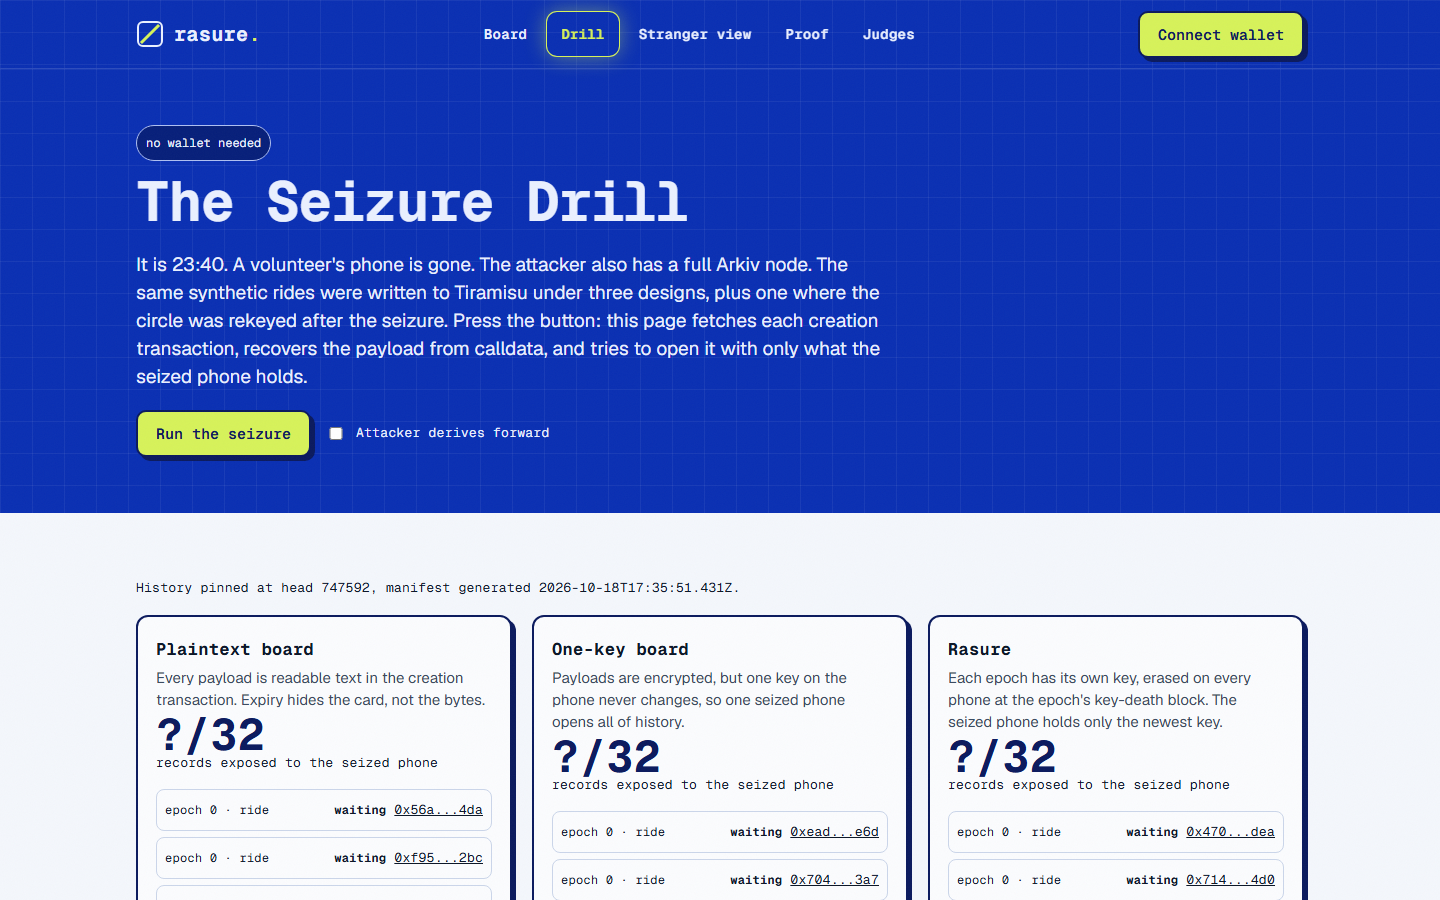
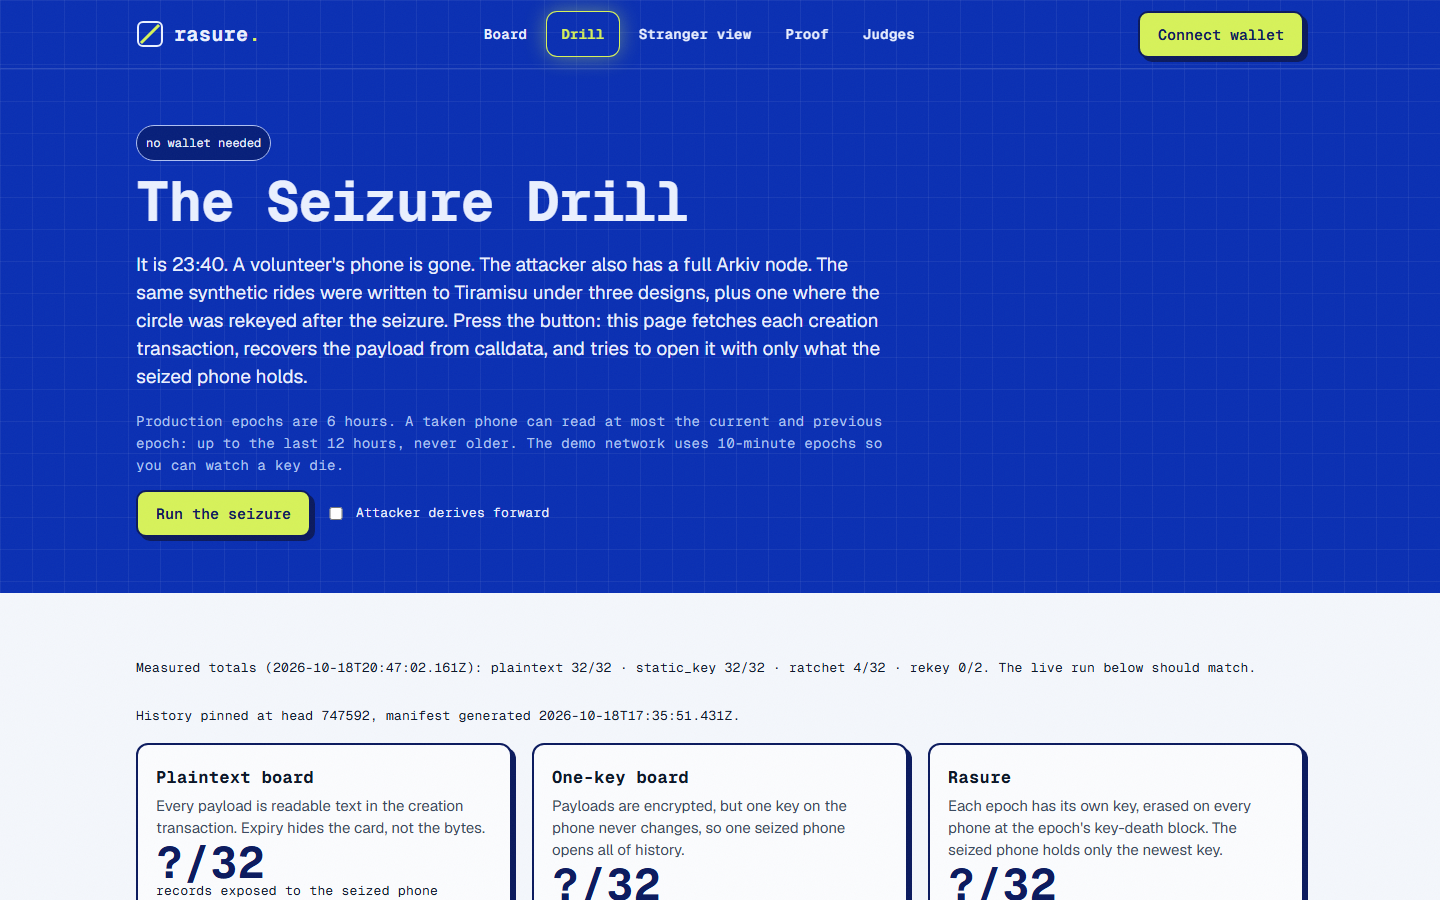
Final pass: baked facts for no-JS readers, human first opening, exact hours, exposure meter, positioning, arkiv-encryption evaluation

Changed region(s): [[0.0, 0.4356, 1.0, 1.0], [0.5, 0.9644, 0.625, 0.9956], [0.875, 0.8089, 0.9062, 0.84]]

diff --git a/packages/core/src/exposure.ts b/packages/core/src/exposure.ts
@@ -1,0 +1,68 @@
+// "If this phone were taken now": what a holder of this keyring can open, derived from the keys it
+// actually holds. Pure counting, no I/O, so the board and the demo view can show the guarantee live.
+
+import { EPOCH_BLOCKS, SECONDS_PER_BLOCK } from "./schema";
+import { epochStart, keyDeathBlock, type KeyringState } from "./ratchet";
+
+export interface Exposure {
+  /** Records the held keys open right now. */
+  openable: number;
+  /** Records whose key is already erased on this phone. */
+  sealedForever: number;
+  /** Death blocks of the erased keys the older records were sealed under, ascending, unique. */
+  erasedAtBlocks: bigint[];
+  /** Seconds covered by the oldest held key up to the head: the most any record read here can be. */
+  windowSeconds: number;
+  /** Seconds until the last held key dies, or null when the phone holds no key. */
+  secondsToNone: number | null;
+}
+
+/**
+ * @param ring    the keyring (only epochs and the clock are read, never a key value)
+ * @param records the records on the board, each with the epoch it was sealed under
+ * @param head    the current head block
+ */
+export function exposureOf(ring: Pick<KeyringState, "keys" | "clock">, records: { epoch: bigint }[], head: bigint): Exposure {
+  const live = ring.keys.filter((k) => head < keyDeathBlock(ring.clock, k.epoch));
+  const held = new Set(live.map((k) => k.epoch));
+  let openable = 0;
+  const erased = new Set<bigint>();
+  for (const r of records) {
+    if (held.has(r.epoch)) openable++;
+    else erased.add(keyDeathBlock(ring.clock, r.epoch));
+  }
+  const sealedForever = records.length - openable;
+  if (live.length === 0) return { openable, sealedForever, erasedAtBlocks: [...erased].sort((a, b) => (a < b ? -1 : 1)), windowSeconds: 0, secondsToNone: null };
+  const oldest = live.reduce((a, b) => (b.epoch < a.epoch ? b : a));
+  const lastDeath = live.reduce((a, b) => { const d = keyDeathBlock(ring.clock, b.epoch); return d > a ? d : a; }, 0n);
+  const from = epochStart(ring.clock, oldest.epoch);
+  const span = head > from ? head - from : 0n;
+  return {
+    openable,
+    sealedForever,
+    erasedAtBlocks: [...erased].sort((a, b) => (a < b ? -1 : 1)),
+    windowSeconds: Number(span) * SECONDS_PER_BLOCK,
+    secondsToNone: Number(lastDeath - head) * SECONDS_PER_BLOCK,
+  };
+}
+
+/** "6 hours", "12 hours", "10 minutes": a block count as time, derived from the schema, never typed. */
+export function blocksAsTime(blocks: bigint): string {
+  const s = Number(blocks) * SECONDS_PER_BLOCK;
+  if (s % 3600 === 0) return `${s / 3600} hour${s === 3600 ? "" : "s"}`;
+  if (s % 60 === 0) return `${s / 60} minute${s === 60 ? "" : "s"}`;
+  return `${s} seconds`;
+}
+
+/** The guarantee in time, derived from EPOCH_BLOCKS. Used by the app and the README so the numbers are typed once. */
+export function epochGuarantee() {
+  const prod = blocksAsTime(EPOCH_BLOCKS.production);
+  const window = blocksAsTime(EPOCH_BLOCKS.production * 2n);
+  const demo = blocksAsTime(EPOCH_BLOCKS.demo).replace(/ (\w+?)s?$/, "-$1");
+  return {
+    prod,
+    window,
+    demo,
+    sentence: `Production epochs are ${prod}. A taken phone can read at most the current and previous epoch: up to the last ${window}, never older. The demo network uses ${demo} epochs so you can watch a key die.`,
+  };
+}

diff --git a/packages/core/test/exposure.test.ts b/packages/core/test/exposure.test.ts
@@ -1,0 +1,68 @@
+import { describe, expect, it } from "vitest";
+import { EPOCH_BLOCKS, advance, blocksAsTime, exposureOf, joinChain, newChain } from "../src";
+
+const clock = { genesisBlock: 1000n, epochBlocks: 300n };
+const recs = (...epochs: number[]) => epochs.map((e) => ({ epoch: BigInt(e) }));
+
+describe("exposureOf", () => {
+  it("no keys: nothing opens, everything is sealed forever, no countdown", () => {
+    const e = exposureOf({ clock, keys: [] }, recs(0, 1, 2), 1700n);
+    expect(e.openable).toBe(0);
+    expect(e.sealedForever).toBe(3);
+    expect(e.secondsToNone).toBeNull();
+    expect(e.windowSeconds).toBe(0);
+  });
+
+  it("current and grace key: opens exactly those epochs, older are erased with their death blocks", () => {
+    let ring = newChain("0xc", clock);
+    ring = advance(ring, 1000n + 300n * 3n + 10n).state; // epoch 3 now, keys 2 and 3 live
+    expect(ring.keys.map((k) => k.epoch)).toEqual([2n, 3n]);
+    const head = 1000n + 300n * 3n + 10n;
+    const e = exposureOf(ring, recs(0, 1, 2, 3), head);
+    expect(e.openable).toBe(2);
+    expect(e.sealedForever).toBe(2);
+    expect(e.erasedAtBlocks).toEqual([1000n + 600n, 1000n + 900n]);
+    // last held key (epoch 3) dies at the start of epoch 5
+    expect(e.secondsToNone).toBe(Number(1000n + 300n * 5n - head) * 2);
+    // window runs from the start of epoch 2 to the head
+    expect(e.windowSeconds).toBe(Number(head - (1000n + 600n)) * 2);
+  });
+
+  it("after a key dies the count drops on the next block", () => {
+    let ring = newChain("0xc", clock);
+    const before = 1000n + 300n * 2n - 1n; // last block of epoch 1, keys 0 and 1 live
+    ring = advance(ring, before).state;
+    expect(exposureOf(ring, recs(0, 1), before).openable).toBe(2);
+    const after = before + 1n; // epoch 2 starts, key 0 dies
+    ring = advance(ring, after).state;
+    const e = exposureOf(ring, recs(0, 1), after);
+    expect(e.openable).toBe(1);
+    expect(e.sealedForever).toBe(1);
+  });
+
+  it("after a rekey the old keys are replaced by the new chain only", () => {
+    const old = advance(newChain("0xc", clock), 1000n + 300n * 3n).state;
+    const head = 1000n + 300n * 3n + 5n;
+    const rekeyed = joinChain("0xc", clock, 3n, new Uint8Array(32).fill(7));
+    expect(exposureOf(old, recs(2, 3), head).openable).toBe(2);
+    const e = exposureOf(rekeyed, recs(2, 3), head);
+    expect(e.openable).toBe(1); // only the new chain's epoch
+    expect(e.sealedForever).toBe(1);
+  });
+});
+
+describe("blocksAsTime", () => {
+  it("derives the production and demo epochs from the schema", () => {
+    expect(blocksAsTime(EPOCH_BLOCKS.production)).toBe("6 hours");
+    expect(blocksAsTime(EPOCH_BLOCKS.demo)).toBe("10 minutes");
+    expect(blocksAsTime(EPOCH_BLOCKS.production * 2n)).toBe("12 hours");
+  });
+});
+
+describe("epochGuarantee", () => {
+  it("states the window in hours, from EPOCH_BLOCKS", async () => {
+    const { epochGuarantee } = await import("../src");
+    const g = epochGuarantee();
+    expect(g.sentence).toBe("Production epochs are 6 hours. A taken phone can read at most the current and previous epoch: up to the last 12 hours, never older. The demo network uses 10-minute epochs so you can watch a key die.");
+  });
+});

diff --git a/apps/web/app/proof/page.tsx b/apps/web/app/proof/page.tsx
@@ -140,7 +140,7 @@ export default function Proof() {
           {f && (f.wildWindows?.length > 0 || f.wildCalldata) && (
             <>
               <h3 className="pf-h3">Wild set · other people's expired records on Arkiv</h3>
-              <div className="pf-tablewrap"><table className="pf-table">
+              <div className="pf-tablewrap" tabIndex={0} role="region" aria-label="Scrollable table"><table className="pf-table">
                 <thead><tr><th>Window</th><th>Sampled</th><th>Still return a payload</th><th>Parse as text</th></tr></thead>
                 <tbody>
                   {f.wildWindows?.map((w: any) => <tr key={w.windowBlocks}><td>{w.approxMinutes} min back{w.partial ? " (partial)" : ""}</td><td className="mono">{w.sampled}</td><td className="mono">{w.stillReturnPayload}</td><td className="mono">{w.readableText}</td></tr>)}
@@ -154,7 +154,7 @@ export default function Proof() {
         <section id="onchain" className="pf-sec">
           <div className="pf-head"><h2>On chain</h2><span className="label pf-meta">{evidence?.length ?? 0} transactions with entity keys</span></div>
           {evidence === null ? <div className="skeleton" style={{ height: 120 }} /> : (
-            <div className="pf-tablewrap"><table className="pf-table">
+            <div className="pf-tablewrap" tabIndex={0} role="region" aria-label="Scrollable table"><table className="pf-table">
               <thead><tr><th>What</th><th>Transaction</th><th>Entity key</th></tr></thead>
               <tbody>{evidence.map((e, i) => (
                 <tr key={`${e.label}-${i}`}>
@@ -195,7 +195,7 @@ export default function Proof() {
         <section id="wallets" className="pf-sec">
           <div className="pf-head"><h2>Wallets</h2><span className="label pf-meta">all testnet, all synthetic</span></div>
           {wallets === null ? <div className="skeleton" style={{ height: 80 }} /> : (
-            <div className="pf-tablewrap"><table className="pf-table">
+            <div className="pf-tablewrap" tabIndex={0} role="region" aria-label="Scrollable table"><table className="pf-table">
               <thead><tr><th>Role</th><th>Address</th><th>What it does</th></tr></thead>
               <tbody>{wallets.map((w) => <tr key={w.address}><td className="mono">{w.role}</td><td className="mono"><a href={addrUrl(w.address)} target="_blank" rel="noreferrer" title={w.address}>{short(w.address)}</a></td><td>{w.note.replace(/`/g, "")}</td></tr>)}</tbody>
             </table></div>

diff --git a/apps/web/app/drill/page.tsx b/apps/web/app/drill/page.tsx
@@ -1,4 +1,5 @@
 "use client";
+import { epochGuarantee } from "@rasure/core";
 import { useEffect, useState } from "react";
 import { hexToBytes } from "viem";
 import { ShieldCheck, ShieldAlert } from "lucide-react";
@@ -65,6 +66,7 @@ export default function DrillPage() {
           <p style={{ fontSize: 19, maxWidth: 760 }}>
             It is 23:40. A volunteer's phone is gone. The attacker also has a full Arkiv node. The same synthetic rides were written to Tiramisu under three designs, plus one where the circle was rekeyed after the seizure. Press the button: this page fetches each creation transaction, recovers the payload from calldata, and tries to open it with only what the seized phone holds.
           </p>
+          <p className="mono" style={{ fontSize: 14, lineHeight: "22px", color: "var(--on-cobalt-2)", maxWidth: 760 }}>{epochGuarantee().sentence}</p>
           <div style={{ display: "flex", gap: 12, flexWrap: "wrap", alignItems: "center" }}>
             <button className="btn btn-lime" onClick={run} disabled={running || manifest === null || manifest === "missing"}>{running ? "Running..." : "Run the seizure"}</button>
             <label className="label" style={{ display: "inline-flex", gap: 8, alignItems: "center" }}>
@@ -76,6 +78,11 @@ export default function DrillPage() {
       </section>
       <section className="sec" style={{ paddingTop: 48 }}>
         <div className="wrap">
+          {hasFacts(facts) && facts.drill && (
+            <p className="label" style={{ marginBottom: 20 }} data-testid="drill-facts">
+              Measured totals ({facts.generatedAt}): {Object.entries(facts.drill).map(([k, v]) => `${k} ${v.exposed}/${v.total}`).join(" · ")}. The live run below should match.
+            </p>
+          )}
           {manifest === null && <div className="skeleton" style={{ height: 120 }} />}
           {manifest === "missing" && (
             <div className="notice">
@@ -116,11 +123,6 @@ export default function DrillPage() {
                 })}
               </div>
               {forward && <ForwardPanel manifest={manifest} />}
-              {hasFacts(facts) && facts.drill && (
-                <p className="label" style={{ marginTop: 20 }}>
-                  FACTS.json totals ({facts.generatedAt}): {Object.entries(facts.drill).map(([k, v]) => `${k} ${v.exposed}/${v.total}`).join(" · ")}. The live run above should match.
-                </p>
-              )}
             </>
           )}
         </div>

diff --git a/apps/web/components/board/ExposureMeter.tsx b/apps/web/components/board/ExposureMeter.tsx
@@ -1,0 +1,33 @@
+"use client";
+import { exposureOf, type KeyringState } from "@rasure/core";
+
+const mmss = (s: number) => `${String(Math.floor(Math.max(0, s) / 60)).padStart(2, "0")}:${String(Math.max(0, s) % 60).padStart(2, "0")}`;
+const span = (s: number) => (s >= 3600 ? `${(Math.round(s / 360) / 10).toString()} hours` : `${Math.max(1, Math.round(s / 60))} minutes`);
+
+/**
+ * The guarantee, shown to the person holding the phone: what a taker could open right now.
+ * Counts come from the keys this phone actually holds (exposureOf in core). No Arkiv write.
+ */
+export function ExposureMeter({ ring, records, head, who = "This phone" }: { ring: Pick<KeyringState, "keys" | "clock">; records: { epoch: bigint }[]; head: bigint; who?: string }) {
+  const x = exposureOf(ring, records, head);
+  const erased = x.erasedAtBlocks;
+  return (
+    <section className="card" aria-label="If this phone were taken now" style={{ marginTop: 20 }}>
+      <div className="label" style={{ color: "var(--cobalt)", letterSpacing: ".12em", fontWeight: 700 }}>IF THIS PHONE WERE TAKEN NOW</div>
+      <div style={{ display: "grid", gridTemplateColumns: "repeat(auto-fit,minmax(220px,1fr))", gap: 16, marginTop: 10 }}>
+        <div>
+          <div className="mono" style={{ fontSize: 34, fontWeight: 700, lineHeight: 1.1 }} data-testid="exposure-open">{x.openable}</div>
+          <div className="label">{who} can open {x.openable === 1 ? "1 ride" : `${x.openable} rides`} right now{x.openable > 0 ? `, all from the last ${span(x.windowSeconds)}` : ""}.</div>
+        </div>
+        <div>
+          <div className="mono" style={{ fontSize: 34, fontWeight: 700, lineHeight: 1.1 }} data-testid="exposure-older">0</div>
+          <div className="label">Rides older than that: 0 openable{erased.length ? ` (keys erased at block${erased.length === 1 ? "" : "s"} ${erased.map(String).join(", ")})` : ""}.</div>
+        </div>
+        <div>
+          <div className="mono" style={{ fontSize: 34, fontWeight: 700, lineHeight: 1.1 }} data-testid="exposure-clock">{x.secondsToNone === null ? "00:00" : mmss(x.secondsToNone)}</div>
+          <div className="label">{x.secondsToNone === null ? `${who} holds no key: it opens none.` : `In ${mmss(x.secondsToNone)} ${who.toLowerCase()} will open none of them.`}</div>
+        </div>
+      </div>
+    </section>
+  );
+}

diff --git a/apps/web/components/board/DemoView.tsx b/apps/web/components/board/DemoView.tsx
@@ -1,6 +1,7 @@
 "use client";
 // Read-only view of the live demo network for visitors who hold no key: public attributes, ciphertext size and the key-death countdown.
 // Nothing here is decrypted. It is the same data a stranger sees on the explorer.
+import { ExposureMeter } from "./ExposureMeter";
 import { useEffect, useState } from "react";
 import { epochAt, fetchAll, keyDeathBlock, q1OpenBoard, q6Circle, toChainEntity, type ChainEntity } from "@rasure/core";
 import { readWithRelay, reader } from "@/lib/chain";
@@ -60,6 +61,7 @@ export function DemoView() {
       <div className="notice">
         <b>Live demo network</b> (read-only, no key needed). Epoch {state.epoch.toString()} now; the key for epoch {oldestEpoch.toString()} dies in <span className="mono">{mmss(death - now)}</span> (block {death.toString()}), when every phone erases it and Arkiv expires the records sealed under it. Held by <a className="hash" href={addrUrl(state.owner)} target="_blank" rel="noreferrer">{short(state.owner, 6)}</a>, generation {state.gen}. An automated night watch keeps it alive during judging.
       </div>
+      <ExposureMeter who="A member phone" ring={{ clock: state.clock, keys: [state.epoch > 0n ? state.epoch - 1n : 0n, state.epoch].filter((e, i, a) => a.indexOf(e) === i).map((epoch) => ({ epoch, chainKey: new Uint8Array(0) })) }} records={state.rides.map((r) => ({ epoch: BigInt(r.attributes.epoch as string | bigint) }))} head={now} />
       <div className="grid g3" style={{ marginTop: 16 }}>
         {state.rides.length === 0 && <p className="notice">No live ride in this epoch yet; the watch posts one each epoch.</p>}
         {state.rides.map((r) => (

diff --git a/apps/web/lib/facts.ts b/apps/web/lib/facts.ts
@@ -1,5 +1,9 @@
 "use client";
 import { useEffect, useState } from "react";
+// Baked in at build time from public/facts.json (written by scripts/facts.ts from proof/results).
+// This makes every number part of the server-rendered HTML, so a judge, a crawler or an AI reviewer
+// that does not run JavaScript sees the measured totals, not a loading state.
+import BAKED from "@/public/facts.json";
 
 export interface Facts {
   generated?: boolean;
@@ -15,12 +19,29 @@ export interface Facts {
   [k: string]: unknown;
 }
 
-/** Numbers only ever come from FACTS.json. When it is not generated yet, pages say so. */
+const INITIAL = BAKED as unknown as Facts;
+
+/**
+ * Numbers only ever come from FACTS.json. The build-time copy renders immediately; the live
+ * /api/facts copy replaces it after load, so a newer run shows without a redeploy.
+ */
 export function useFacts() {
-  const [facts, setFacts] = useState<Facts | null>(null);
+  const [facts, setFacts] = useState<Facts>(INITIAL);
   useEffect(() => {
-    fetch("/api/facts").then((r) => r.json()).then(setFacts).catch(() => setFacts({ generated: false, reason: "could not load /api/facts" }));
+    let alive = true;
+    fetch("/api/facts", { cache: "no-store" })
+      .then((r) => r.json())
+      .then((f: Facts) => {
+        if (alive && f && f.generated !== false) setFacts(f);
+      })
+      .catch(() => {
+        /* keep the build-time facts; they are real results, not a placeholder */
+      });
+    return () => {
+      alive = false;
+    };
   }, []);
   return facts;
 }
+
 export const hasFacts = (f: Facts | null): f is Facts => !!f && f.generated !== false;

diff --git a/apps/web/app/(site)/page.tsx b/apps/web/app/(site)/page.tsx
@@ -1,4 +1,5 @@
 import Link from "next/link";
+import { epochGuarantee } from "@rasure/core";
 import { RideSlipStack } from "@/components/hero/RideSlipStack";
 import { TodayVsRasure } from "@/components/landing/TodayVsRasure";
 import { HowARideMoves, ThreeBoards, MeerasNight, StrangerPreview, BuiltOnArkiv } from "@/components/landing/Sections";
@@ -22,6 +23,9 @@ export default function Landing() {
               <Link href="/drill" className="btn btn-lime">Run the seizure drill</Link>
               <Link href="/board" className="btn btn-line">Open the board</Link>
             </div>
+            <p className="mono" style={{ fontSize: 14, lineHeight: "22px", color: "var(--on-cobalt-2)", maxWidth: 560, marginTop: 22 }}>
+              23:40, Pune. A volunteer driver's phone is taken at a petrol pump by the man whose wife she drove to a shelter an hour earlier. On an ordinary shared board, that phone holds weeks of pickups. On Rasure it holds tonight, and by morning it holds nothing.
+            </p>
           </div>
           <div style={{ display: "grid", justifyItems: "center" }}>
             <RideSlipStack />

diff --git a/scripts/readme.ts b/scripts/readme.ts
@@ -5,6 +5,7 @@ import { execSync } from "node:child_process";
 import { existsSync, readFileSync, writeFileSync } from "node:fs";
 import { resolve } from "node:path";
 import { ROOT } from "./lib";
+import { epochGuarantee } from "@rasure/core";
 
 const rd = (p: string) => (existsSync(resolve(ROOT, p)) ? readFileSync(resolve(ROOT, p), "utf8").trim() : "");
 const cfg = existsSync(resolve(ROOT, "docs/deploy.json")) ? JSON.parse(readFileSync(resolve(ROOT, "docs/deploy.json"), "utf8")) : {};
@@ -31,6 +32,8 @@ fill("facts", rd("docs/facts-block.md"));
 fill("txfeatures", rd("docs/txfeatures.md"));
 
 if (!VIDEO) t = t.split("\n").filter((l) => !l.includes("VIDEO_URL")).join("\n");
+const g = epochGuarantee();
+t = t.replaceAll("EPOCH_SENTENCE", g.sentence).replaceAll("EPOCH_WINDOW", g.window).replaceAll("EPOCH_PROD", g.prod);
 t = t.replaceAll("VIDEO_URL", VIDEO).replaceAll("LIVE_URL", LIVE).replaceAll("BASELINE_SHA", baseline);
 t = t.replace(/<!--[\s\S]*?-->\n?/g, "").replace(/\n{3,}/g, "\n\n");
 writeFileSync(resolve(ROOT, "README.md"), t.trim() + "\n");

diff --git a/tests/e2e/nojs.spec.ts b/tests/e2e/nojs.spec.ts
@@ -1,0 +1,20 @@
+import { test, expect } from "@playwright/test";
+
+// Readers that do not run JavaScript (crawlers, link previews, AI reviewers) must see the measured totals
+// in the server-rendered HTML, never a loading or "not generated" state.
+test.use({ javaScriptEnabled: false });
+
+for (const route of ["/", "/proof", "/drill"]) {
+  test(`${route} carries the measured drill totals with JavaScript disabled`, async ({ page }, info) => {
+    test.skip(info.project.name !== "desktop-1440", "one viewport is enough for server-rendered HTML");
+    const res = await page.goto(route);
+    expect(res?.ok()).toBe(true);
+    const html = await page.content();
+    expect(html).not.toContain("has not been generated");
+    const text = (await page.locator("body").textContent()) ?? "";
+    expect(text).not.toContain("has not been generated");
+    // text content joins the pieces React splits with comment markers
+    expect(text).toContain("32/32");
+    expect(text).toContain("4/32");
+  });
+}

diff --git a/apps/web/components/landing/TodayVsRasure.tsx b/apps/web/components/landing/TodayVsRasure.tsx
@@ -80,7 +80,7 @@ export function TodayVsRasure() {
         </svg>
         <p className="label" style={{ display: "flex", gap: 16, flexWrap: "wrap", margin: "8px 6px 4px" }}>
           <span style={{ display: "inline-flex", alignItems: "center", gap: 6 }}><span style={{ width: 10, height: 10, background: "#f0533a", border: "1.5px solid #0b1a5e", display: "inline-block" }} />readable from history</span>
-          <span style={{ display: "inline-flex", alignItems: "center", gap: 6 }}><span style={{ width: 10, height: 10, background: "#d7f25a", border: "1.5px solid #0b1a5e", display: "inline-block" }} />readable by design (current and grace epoch)</span>
+          <span style={{ display: "inline-flex", alignItems: "center", gap: 6 }}><span style={{ width: 10, height: 10, background: "#d7f25a", border: "1.5px solid #0b1a5e", display: "inline-block" }} />readable by design (current and previous epoch)</span>
         </p>
       </div>
       <div className="grid g2" style={{ marginTop: 24 }}>

diff --git a/apps/web/components/landing/Sections.tsx b/apps/web/components/landing/Sections.tsx
@@ -1,4 +1,5 @@
 "use client";
+import { epochGuarantee } from "@rasure/core";
 import Link from "next/link";
 import { useEffect, useState } from "react";
 import { hasFacts, useFacts } from "@/lib/facts";
@@ -60,7 +61,7 @@ export function ThreeBoards() {
   const cards = [
     { k: "plaintext", t: "Plaintext board", s: "Every payload readable from the creation transaction." },
     { k: "static_key", t: "One-key board", s: "One key on the phone opens every past ride." },
-    { k: "ratchet", t: "Rasure", s: "Only the current and grace epoch, by design." },
+    { k: "ratchet", t: "Rasure", s: `Only the current and previous epoch: at most the last ${epochGuarantee().window}, by design.` },
   ];
   return (
     <div>
